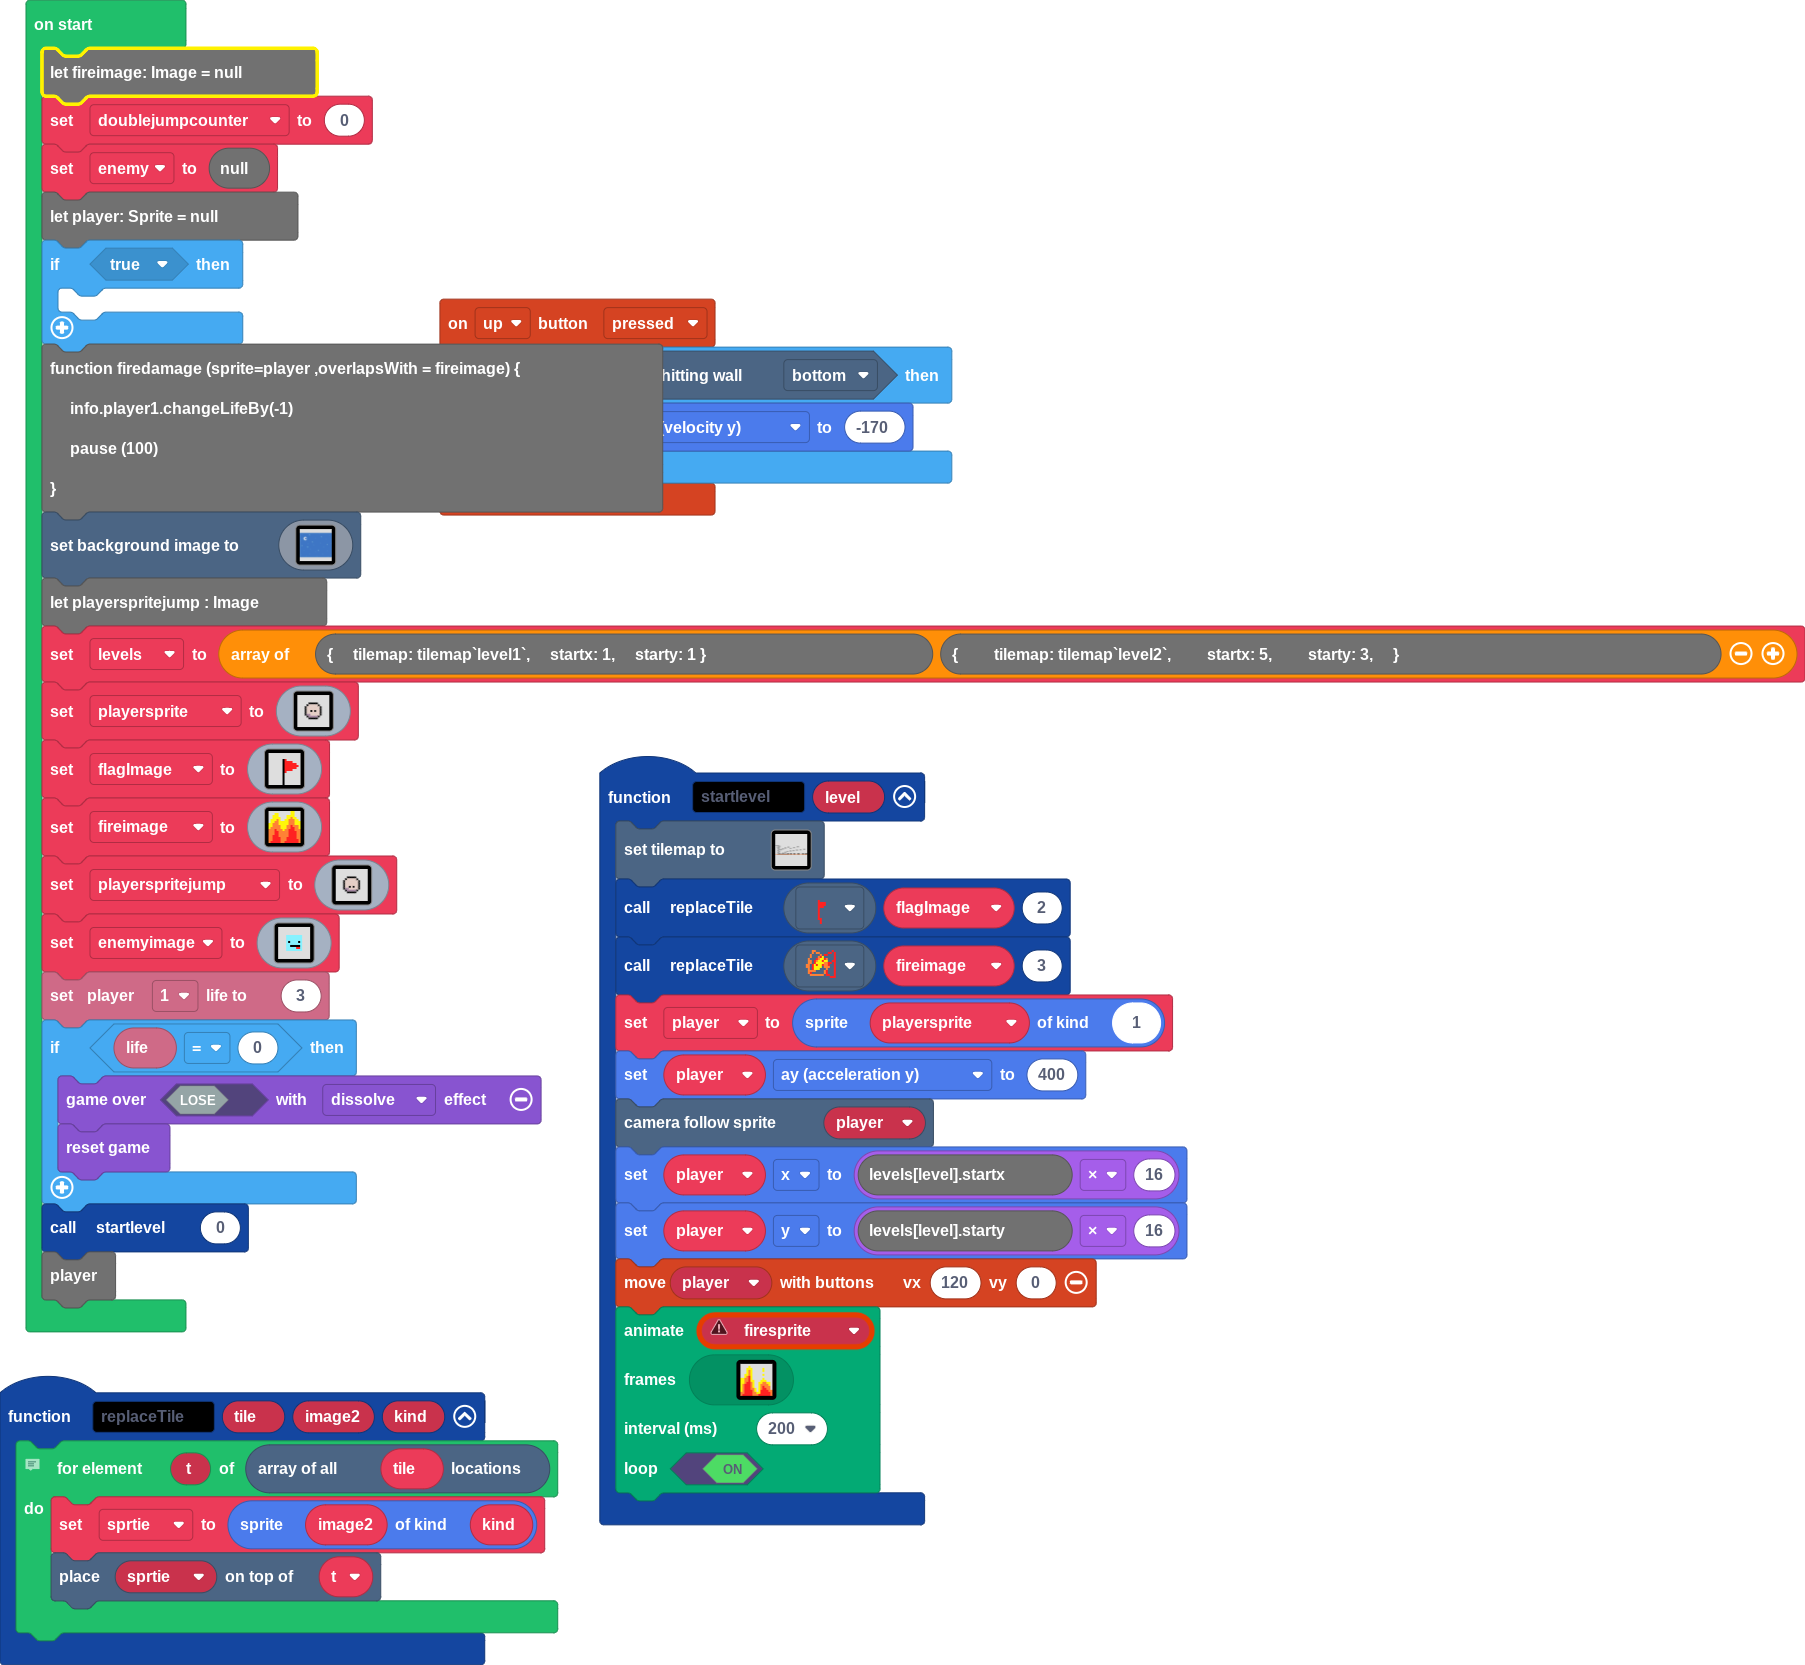
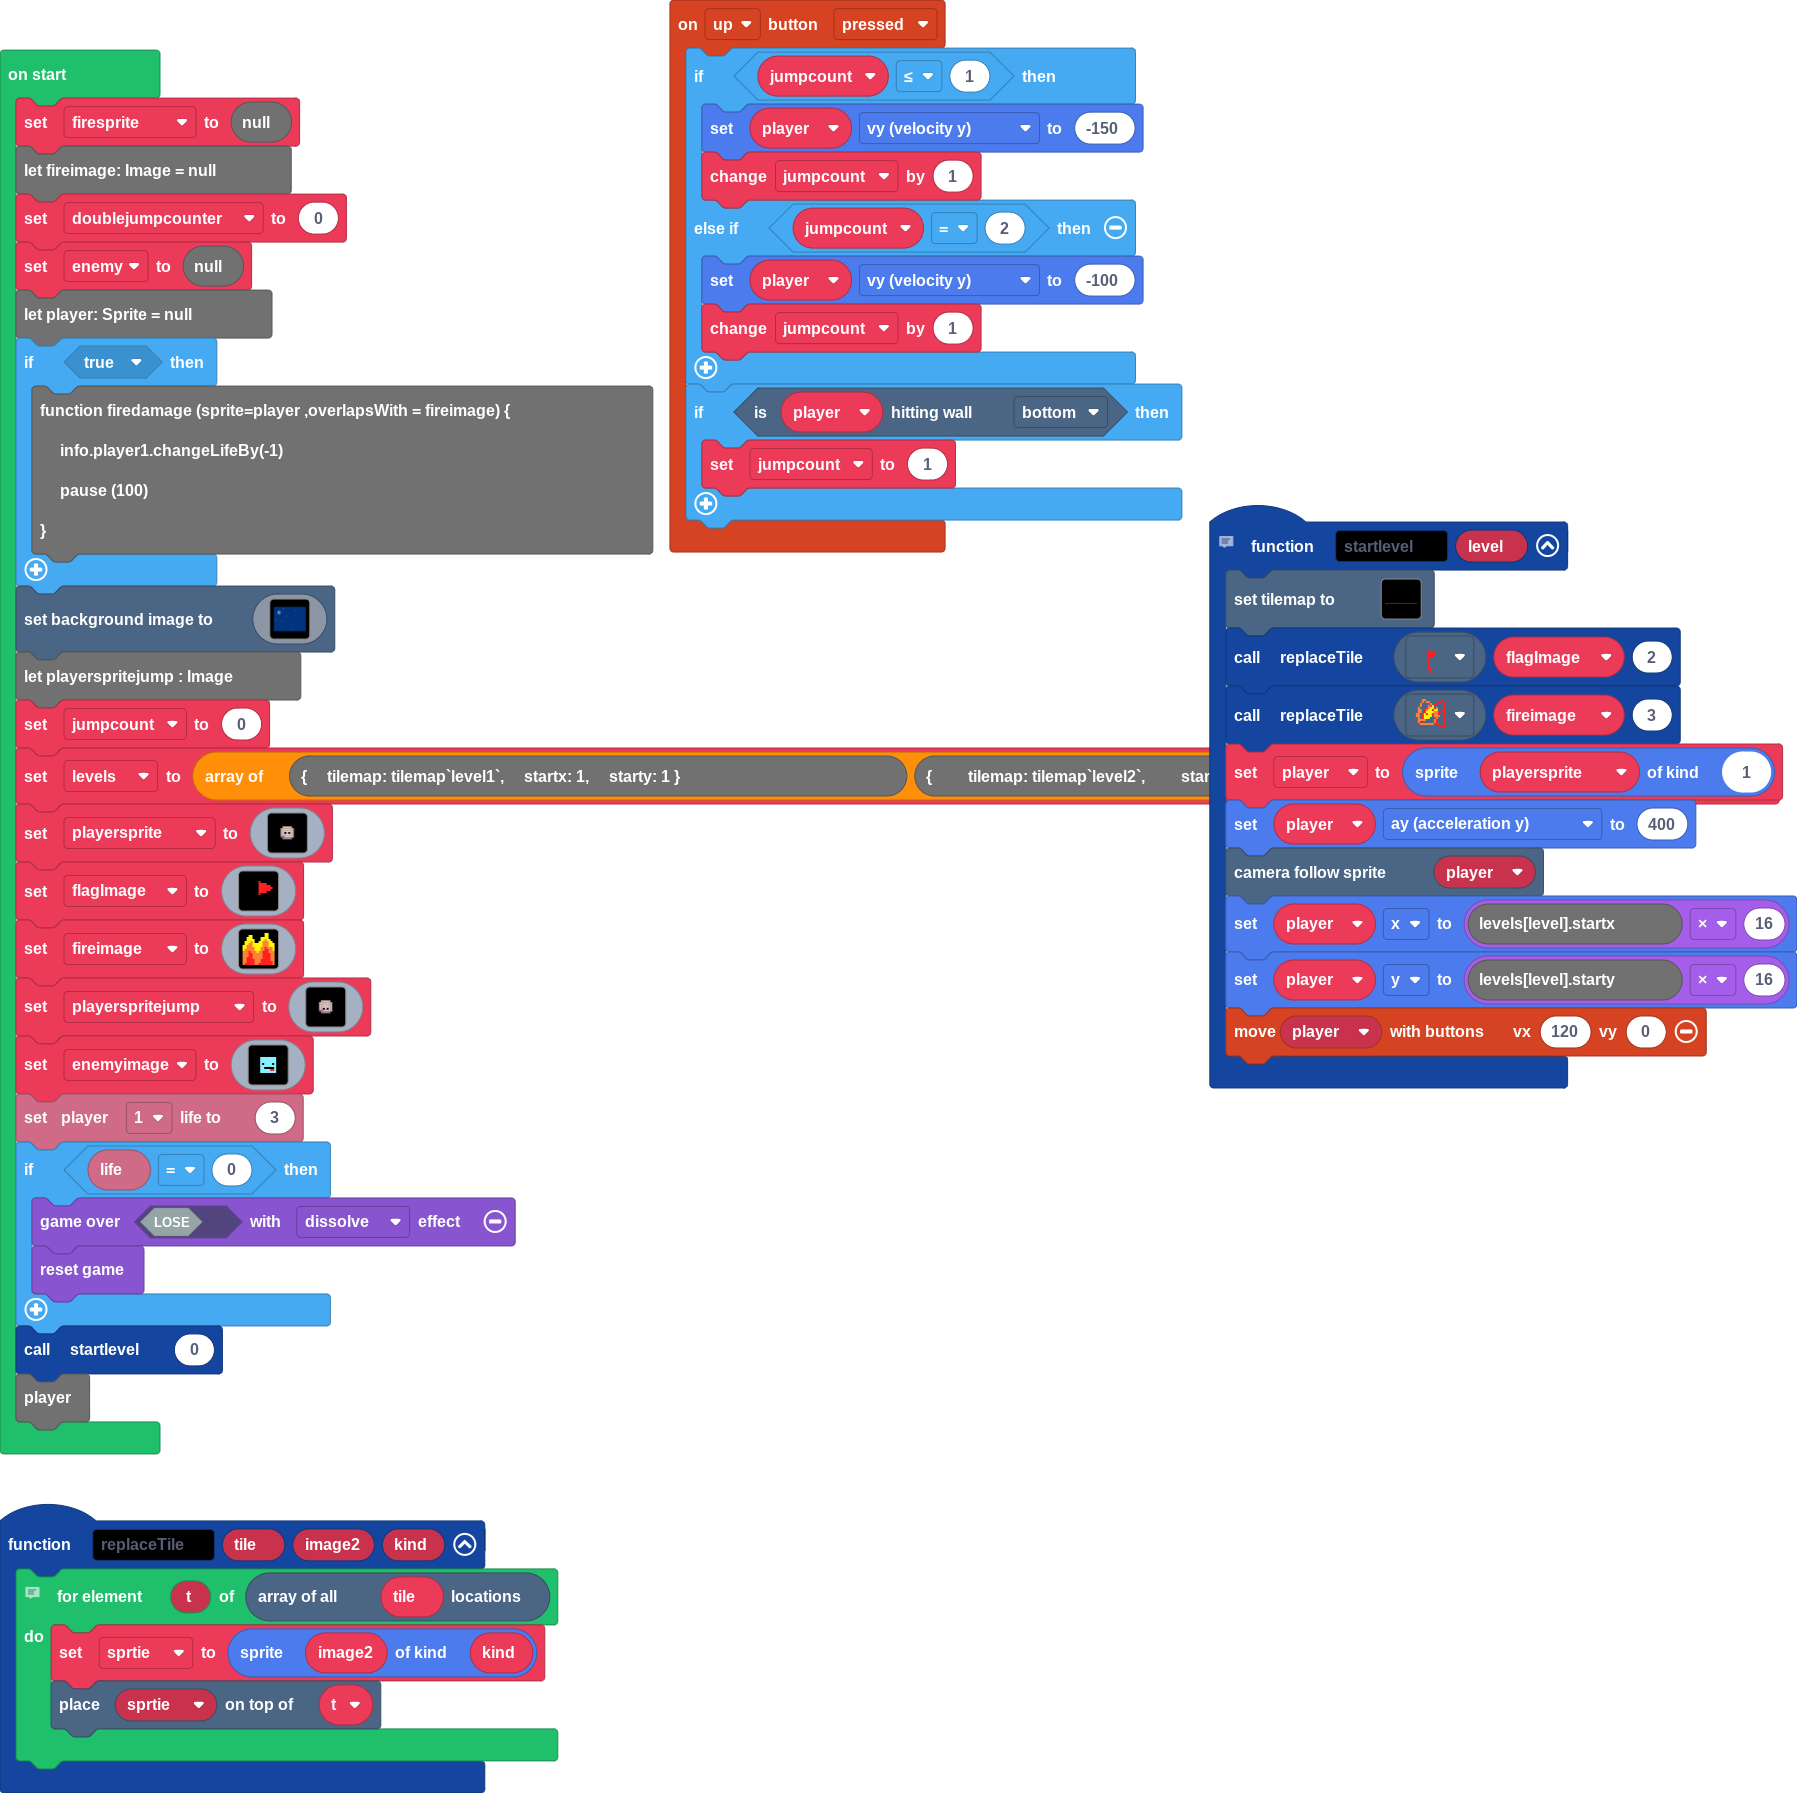
Update main.blocks, main.ts, tilemap.g.jres, tilemap.g.ts

diff --git a/main.ts b/main.ts
@@ -1,6 +1,13 @@
 controller.up.onEvent(ControllerButtonEvent.Pressed, function () {
+    if (jumpcount <= 1) {
+        player.vy = -150
+        jumpcount += 1
+    } else if (jumpcount == 2) {
+        player.vy = -100
+        jumpcount += 1
+    }
     if (player.isHittingTile(CollisionDirection.Bottom)) {
-        player.vy = -170
+        jumpcount = 0
     }
 })
 function replaceTile (tile: Image, image2: Image, kind: number) {
@@ -10,8 +17,13 @@ function replaceTile (tile: Image, image2: Image, kind: number) {
         tiles.placeOnTile(sprtie, t)
     }
 }
+// animation.runImageAnimation(
+// firesprite,
+// assets.animation`fire`,
+// 200,
+// true
+// )
 function startlevel (level: number) {
-    let firesprite: Sprite = null
     tiles.setTilemap(tilemap`level1`)
     replaceTile(assets.tile`flag`, flagImage, 2)
     replaceTile(assets.tile`fire1`, fireimage, 3)
@@ -21,32 +33,25 @@ function startlevel (level: number) {
     player.x = levels[level].startx * 16
     player.y = levels[level].starty * 16
     controller.moveSprite(player, 120, 0)
- 
-    animation.runImageAnimation(
-    firesprite,
-    assets.animation`fire`,
-    200,
-    true
-    )
-
 }
-
 let sprtie: Sprite = null
 let flagImage: Image = null
 let playersprite: Image = null
+let jumpcount = 0
+let firesprite = null
 let fireimage: Image = null
 let doublejumpcounter = 0
-let enemy: Sprite = null
+let enemy = null
 let player: Sprite = null
-if (true) 
-	
-
-function firedamage (sprite=player ,overlapsWith = fireimage) {
+if (true) {
+    function firedamage (sprite=player ,overlapsWith = fireimage) {
      info.player1.changeLifeBy(-1)
      pause (100)
 }
+}
 scene.setBackgroundImage(assets.image`night backround`)
 let playerspritejump : Image
+jumpcount = 0
 let levels = [{
     tilemap: tilemap`level1`,
     startx: 1,
@@ -58,23 +63,23 @@ let levels = [{
     }]
 playersprite = assets.image`player`
 flagImage = img`
-    . . . . . . . . . . . . . . . .
-    . . . . . . . . . . . . . . . .
-    . . . . . . . . . . . . . . . .
-    . . . . . . . f 2 . . . . . . .
-    . . . . . . . f 2 2 2 2 . . . .
-    . . . . . . . f 2 2 2 2 2 2 . .
-    . . . . . . . f 2 2 2 2 2 2 2 .
-    . . . . . . . f 2 2 2 2 2 2 . .
-    . . . . . . . f 2 2 2 2 . . . .
-    . . . . . . . f 2 . . . . . . .
-    . . . . . . . f . . . . . . . .
-    . . . . . . . f . . . . . . . .
-    . . . . . . . f . . . . . . . .
-    . . . . . . . f . . . . . . . .
-    . . . . . . . f . . . . . . . .
-    . . . . . . . f . . . . . . . .
-`
+    . . . . . . . . . . . . . . . . 
+    . . . . . . . . . . . . . . . . 
+    . . . . . . . . . . . . . . . . 
+    . . . . . . . f 2 . . . . . . . 
+    . . . . . . . f 2 2 2 2 . . . . 
+    . . . . . . . f 2 2 2 2 2 2 . . 
+    . . . . . . . f 2 2 2 2 2 2 2 . 
+    . . . . . . . f 2 2 2 2 2 2 . . 
+    . . . . . . . f 2 2 2 2 . . . . 
+    . . . . . . . f 2 . . . . . . . 
+    . . . . . . . f . . . . . . . . 
+    . . . . . . . f . . . . . . . . 
+    . . . . . . . f . . . . . . . . 
+    . . . . . . . f . . . . . . . . 
+    . . . . . . . f . . . . . . . . 
+    . . . . . . . f . . . . . . . . 
+    `
 fireimage = assets.image`fire frame 1`
 playerspritejump = assets.image`player-jump`
 let enemyimage = assets.image`enemy1`

diff --git a/tilemap.g.ts b/tilemap.g.ts
@@ -155,6 +155,25 @@ namespace myTiles {
 . . . . . . . . . . . . . . . . 
 . . . . . . . . . . . . . . . . 
 `, [myTiles.transparency16], TileScale.Sixteen);
+            case "level7":
+            case "level7":return tiles.createTilemap(hex`1000100000000000000000000000000000000000000000000000000000000000000000000000000000000000000000000000000000000000000000000000000000000000000000000000000000000000000000000000000000000000000000000000000000000000000000000000000000000000000000000000000000000000000000000000000000000000000000000000000000000000000000000000000000000000000000000000000000000000000000000000000000000000000000000000000000000000000000000000000000000000000000000000000000000000000000000000000000000000000000000000000000000000000000000000000000000000`, img`
+. . . . . . . . . . . . . . . . 
+. . . . . . . . . . . . . . . . 
+. . . . . . . . . . . . . . . . 
+. . . . . . . . . . . . . . . . 
+. . . . . . . . . . . . . . . . 
+. . . . . . . . . . . . . . . . 
+. . . . . . . . . . . . . . . . 
+. . . . . . . . . . . . . . . . 
+. . . . . . . . . . . . . . . . 
+. . . . . . . . . . . . . . . . 
+. . . . . . . . . . . . . . . . 
+. . . . . . . . . . . . . . . . 
+. . . . . . . . . . . . . . . . 
+. . . . . . . . . . . . . . . . 
+. . . . . . . . . . . . . . . . 
+. . . . . . . . . . . . . . . . 
+`, [myTiles.transparency16], TileScale.Sixteen);
         }
         return null;
     })
